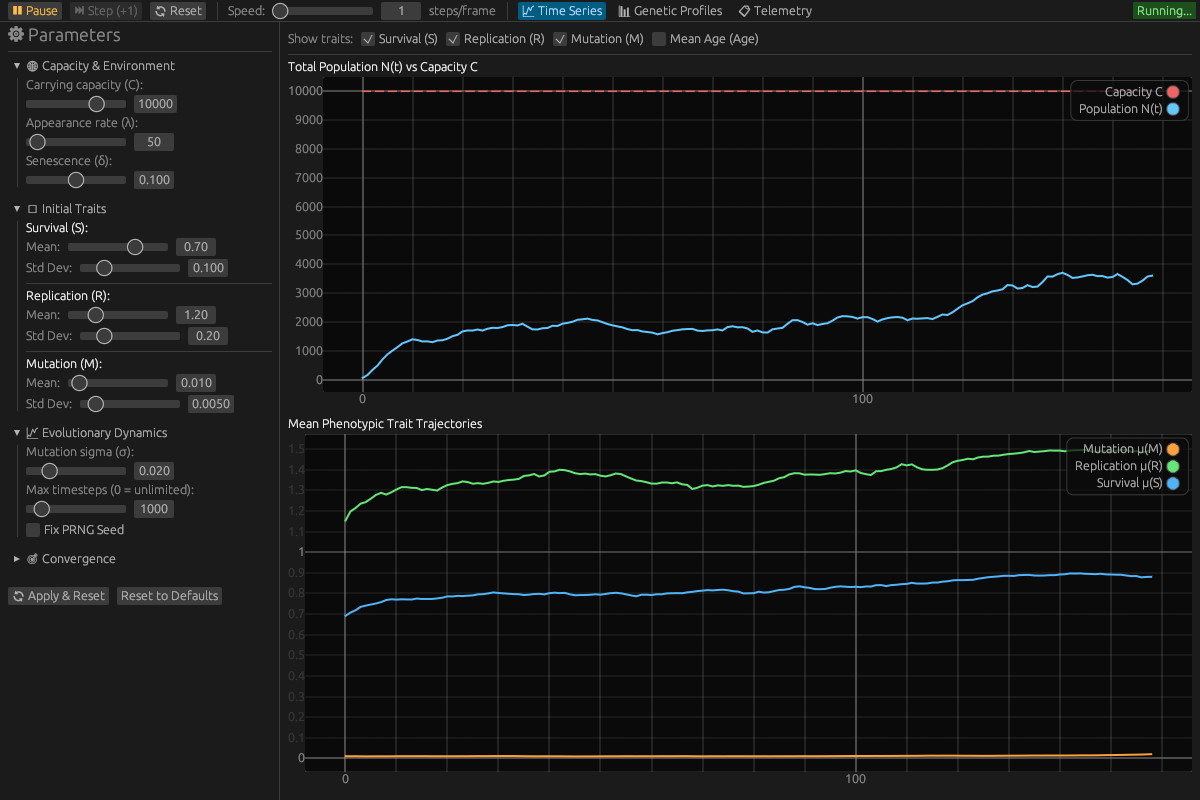
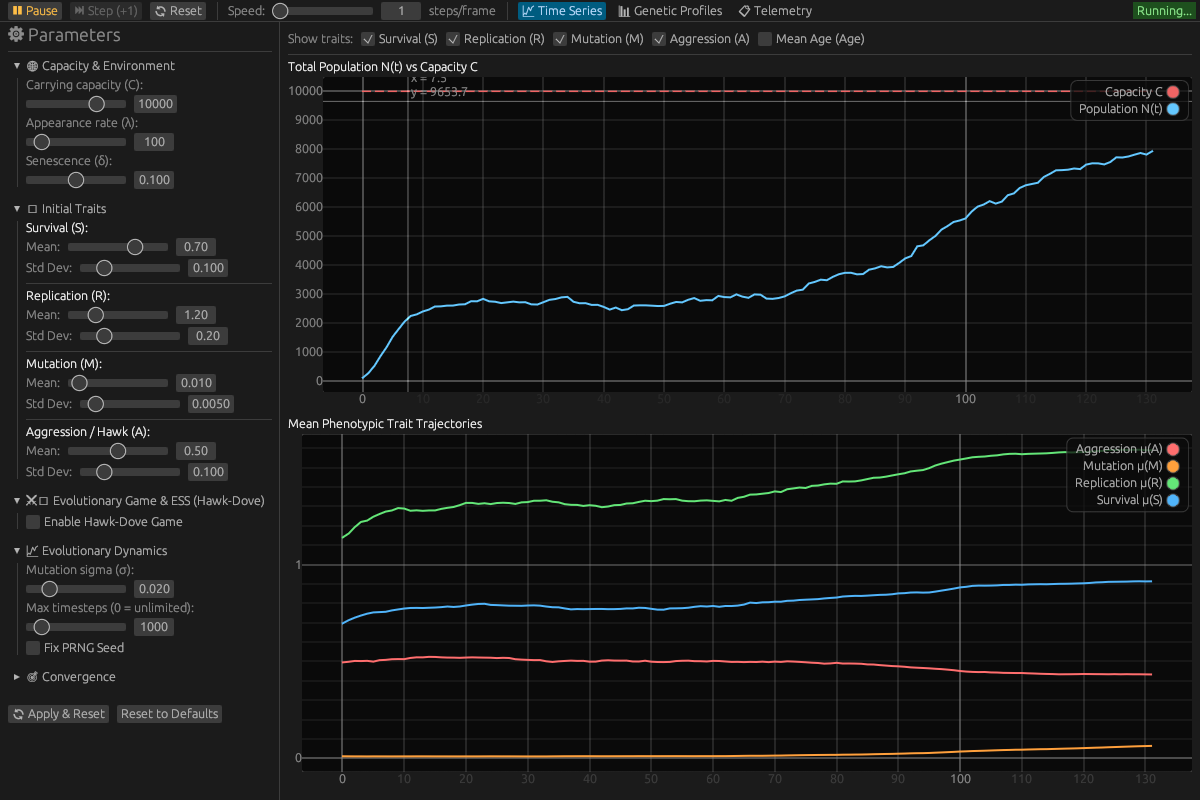
docs(readme): update GUI dashboard screenshot and document game theory features

diff --git a/README.md b/README.md
@@ -8,11 +8,12 @@ A high-performance evolution simulator based on Richard Dawkins' **Selfish Gene*
 
 ## Features
 
-- **Evolutionary simulation engine**: Core biological models (survival, replication, mutation, age senescence).
+- **Evolutionary simulation engine**: Core biological models (survival, replication, mutation, age senescence, and game theory interactions).
+- **Evolutionary Game Theory & ESS (Hawk-Dove Model)**: Pairwise competitive encounters for contested resources ($V$) with combat injury mortality risks ($C$), demonstrating dynamic convergence to Maynard Smith's Evolutionarily Stable Strategy ($p^* = V/C$).
 - **Interactive GUI Application (`selfish-gene-gui`)**:
-  - Real-time time series plots (`egui_plot`) for population $N(t)$ vs $C$, trait means $(\bar{S}, \bar{R}, \bar{M})$, and age.
-  - Interactive parameter controls: sliders for capacity, appearance rate, initial trait distributions, mutation noise, and convergence.
-  - Genotype / phenotype distribution histogram with abundance percentages.
+  - Real-time time series plots (`egui_plot`) for population $N(t)$ vs $C$, trait means $(\bar{S}, \bar{R}, \bar{M}, \bar{A})$, and age.
+  - Interactive parameter controls: sliders for capacity, appearance rate, initial trait distributions, Hawk-Dove game parameters, mutation noise, and convergence.
+  - Genotype / phenotype distribution histogram with abundance percentages across 4D trait space.
   - Playback controls: Play, Pause, Step (+1 generation), Reset, and simulation speed throttle (steps per frame).
   - Ecosystem telemetry dashboard and one-click JSON export.
 - **Terminal CLI Application (`selfish-gene`)**:
@@ -40,6 +41,9 @@ cargo run --bin selfish-gene-gui --release
 # Run with default parameters and live terminal TUI
 cargo run --bin selfish-gene --release
 
+# Run Hawk-Dove ESS experiment (V=2.0, C=10.0 => p* = 0.20)
+cargo run --bin selfish-gene -- --enable-game-theory --game-resource-value 2.0 --game-injury-cost 10.0
+
 # Run for 500 timesteps in text log mode
 cargo run --bin selfish-gene -- --max-timesteps 500 --no-live-display
 
@@ -56,6 +60,12 @@ cargo run --bin selfish-gene -- -o results.json
 -t, --max-timesteps <N>               Maximum timesteps (0 = unlimited) [default: 1000]
 --senescence-rate <RATE>              Senescence rate (age-dependent mortality factor, default 0 = disabled)
 
+# Evolutionary Game Theory (Hawk-Dove)
+--enable-game-theory                  Enable pairwise game encounters
+--game-resource-value <V>             Contested resource payoff value [default: 2.0]
+--game-injury-cost <C>                Combat injury penalty in Hawk-Hawk fights [default: 10.0]
+--game-interaction-rate <RATE>        Mean encounters per individual per step [default: 1.0]
+
 # Initial trait distributions (mean and std dev)
 --init-survival-mean <MEAN>           [default: 0.7]
 --init-survival-std <STD>             [default: 0.1]
@@ -63,6 +73,8 @@ cargo run --bin selfish-gene -- -o results.json
 --init-replication-std <STD>          [default: 0.2]
 --init-mutation-mean <MEAN>           [default: 0.01]
 --init-mutation-std <STD>             [default: 0.005]
+--init-aggression-mean <MEAN>         [default: 0.5]
+--init-aggression-std <STD>           [default: 0.1]
 
 # Evolution parameters
 --mutation-sigma <SIGMA>              Gaussian noise for mutations [default: 0.02]
@@ -80,6 +92,7 @@ cargo run --bin selfish-gene -- -o results.json
 -o, --output-file <FILE>              Export results to JSON
 
 # Reproducibility
+--seed <SEED>                         PRNG seed for deterministic runs
 ```
 
 ## Documentation
@@ -96,32 +109,29 @@ Comprehensive project documentation is available in the [`docs/`](docs/) directo
 
 ### The Model
 
-Each **replicator** has three heritable traits:
+Each **replicator** has four heritable continuous traits:
 
-1. **Survival rate** (0-1): Probability of surviving each timestep
-2. **Replication rate** (≥0): Expected number of offspring per timestep
-3. **Mutation rate** (0-1): Probability of trait mutation during replication
+1. **Survival rate** ($S \in [0, 1]$): Base probability of surviving each timestep.
+2. **Replication rate** ($R \ge 0$): Baseline expected offspring produced per timestep.
+3. **Mutation rate** ($M \in [0, 1]$): Probability of trait mutation during replication.
+4. **Aggression propensity** ($A \in [0, 1]$): Probability of choosing the aggressive **Hawk** strategy in pairwise resource contests.
 
 ### Simulation cycle
 
 Each timestep:
 
-1. **Appearance**: New replicators appear (Poisson distribution)
-2. **Survival**: Each replicator survives with probability = survival_rate
-   - *Age (senescence):* The survival probability is reduced with age following an exponential decay: `effective_survival = survival_rate * exp(-senescence_rate * age)`.
-3. **Replication**: Survivors produce offspring
-   - Actual rate = replication_rate × resource_factor
-   - Resource factor = `1 - (N / C)` (density-dependent)
-4. **Mutation**: Offspring traits may mutate (Gaussian noise)
+1. **Appearance**: New primordial replicators appear (Poisson distribution).
+2. **Game Interactions (Hawk-Dove)**: When enabled, individuals engage in pairwise contests for resources ($V$) risking injury ($C$).
+3. **Survival & Combat Injuries**: Each replicator survives based on its baseline survival, age senescence decay, and combat injury penalties.
+4. **Replication**: Survivors produce offspring scaled by resource availability ($\Phi(N) = 1 - N/C$) and resource payoffs.
+5. **Mutation**: Offspring traits undergo Gaussian perturbation $\mathcal{N}(0, \sigma_m)$ if a mutation roll passes.
+6. **Aging**: Chronological age increases by 1 for all surviving individuals.
 
 ### Evolutionary pressure
 
-The resource factor creates selection pressure:
-- When population is low (N << C), replication is near maximum
-- When approaching capacity (N → C), replication slows down
-- Traits that balance survival and efficient replication tend to dominate
-
-Senescence introduces an additional evolutionary pressure: higher senescence rates penalize older individuals, favoring traits that reproduce earlier or that maintain higher baseline survival at younger ages.
+- **Density pressure**: When population is low ($N \ll C$), replication is near maximum; near capacity ($N \to C$), reproduction halts.
+- **Senescence pressure**: Age mortality accelerates with time ($e^{-\gamma \cdot \text{age}}$), favoring early reproductive investment.
+- **Game-theoretic pressure (ESS)**: In aggressive populations ($A > V/C$), high injury costs penalize Hawks, selecting for peaceful Doves; in peaceful populations ($A < V/C$), Hawks exploit Doves, driving aggression toward the equilibrium $p^* = V/C$.
 
 ## Visualizations & Example Output
 
@@ -137,13 +147,13 @@ The native desktop application (shown in the [preview above](#selfish-gene-simul
 ╠════════════════════════════════════════════════════════════════════════════╣
 ║ Profile Distribution (Top 15 profiles)                                     ║
 ╠════════════════════════════════════════════════════════════════════════════╣
-║ S:1.0 R:1.1 M:0.01 │ ███████████████████████████████████████████████  9904 ║
-║ S:1.0 R:1.3 M:0.01 │ ██                                                 48 ║
-║ S:0.9 R:1.4 M:0.01 │                                                    29 ║
-║ S:1.0 R:1.0 M:0.01 │                                                     6 ║
+║ S:1.0 R:1.1 M:0.01 A:0.2 │ █████████████████████████████████████████  9840 ║
+║ S:1.0 R:1.3 M:0.01 A:0.2 │ ██                                           95 ║
+║ S:0.9 R:1.2 M:0.01 A:0.3 │                                              42 ║
+║ S:1.0 R:1.0 M:0.01 A:0.2 │                                              15 ║
 ╚════════════════════════════════════════════════════════════════════════════╝
 
-Legend: S=Survival rate, R=Replication rate, M=Mutation rate
+Legend: S=Survival, R=Replication, M=Mutation, A=Aggression (Hawk)
 ```
 
 ### Final statistics
@@ -153,10 +163,11 @@ Legend: S=Survival rate, R=Replication rate, M=Mutation rate
                     FINAL POPULATION
 ════════════════════════════════════════════════════════════════
 Final population size:    10000
-Average survival rate:    1.000000
-Average replication rate: 1.119440
-Average mutation rate:    0.007221
-Average age:              12.0334
+Average survival rate:    0.994210
+Average replication rate: 1.121540
+Average mutation rate:    0.007812
+Average aggression:       0.201450
+Average age:              14.2315
 ════════════════════════════════════════════════════════════════
 ```
 
